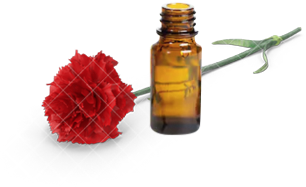
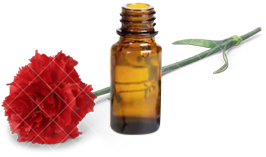
comp section

diff --git a/src/styles/components/components.scss b/src/styles/components/components.scss
@@ -1,0 +1,185 @@
+.components {
+  padding: 90px 0;
+}
+
+.components__content {
+  position: relative;
+}
+
+.components__subtitle {
+  margin-top: 17px;
+  text-align: center;
+}
+
+.components__prod {
+  position: absolute;
+  top: 36px;
+  left: 76px;
+}
+
+.components__list {
+  max-width: 860px;
+  margin: 50px 50px 0 auto;
+  display: flex;
+  justify-content: space-between;
+}
+
+.components__item {
+  max-width: 270px;
+  margin-top: 136px;
+
+  &:nth-child(2n) {
+    margin-top: 0;
+  }
+
+  &:nth-child(1) {
+    .components__img img {
+      left: -8px;
+      top: -11px;
+    }
+  }
+
+  &:nth-child(2) {
+    .components__img img {
+      top: -7px;
+      left: -47px;
+    }
+  }
+
+  &:nth-child(3) {
+    margin-top: 107px;
+
+    .components__img img {
+      top: -12px;
+      left: -23px;
+    }
+  }
+}
+
+.components__item.active {
+  .components__item-text {
+    max-height: none;
+
+    &::before {
+      display: none;
+    }
+  }
+
+  .components__btn:before {
+    top: 15px;
+    transform: rotate(-45deg);
+  }
+
+  .components__btn:after {
+    top: 15px;
+    transform: rotate(45deg);
+  }
+}
+
+.components__img img {
+  // height: 160px;
+  margin: 0 auto;
+  position: relative;
+}
+
+.components__item-title {
+  margin-bottom: 12px;
+  font-size: 22px;
+  font-weight: 500;
+  line-height: 1.3;
+}
+
+.components__desc {
+  position: relative;
+}
+
+.components__item-text {
+  max-height: 112px;
+  font-size: 18px;
+  color: #444444;
+  line-height: 1.6;
+  overflow: hidden;
+  position: relative;
+  transition: all .5s;
+
+  &::before {
+    content: "";
+    position: absolute;
+    width: 100%;
+    height: 35px;
+    bottom: -7px;
+    background: linear-gradient(to bottom, rgba(255, 255, 255, 0) 0%, rgba(255, 255, 255, 1) 100%);
+  }
+}
+
+.more-btn {
+  width: 33px;
+  height: 33px;
+  border-radius: 100%;
+  background-color: $green;
+  position: relative;
+  cursor: pointer;
+
+  &::before,
+  &::after {
+    content: "";
+    height: 2px;
+    width: 11px;
+    top: 17px;
+    background-color: #fff;
+    position: absolute;
+    transition: all .5s;
+  }
+
+  &:before {
+    left: 7px;
+    transform: rotate(45deg);
+  }
+
+  &:after {
+    left: 14px;
+    transform: rotate(-45deg);
+  }
+}
+
+.components__btn {
+  position: absolute;
+  left: 0;
+  bottom: -50px;
+}
+
+.components__bottom {
+  max-width: 815px;
+  margin: 47px auto 0;
+  text-align: center;
+}
+
+.components__bottom-title {
+  margin-bottom: 34px;
+  padding-top: 60px;
+  font-size: 29px;
+  font-weight: 500;
+  position: relative;
+
+  &:before {
+    content: "";
+    position: absolute;
+    top: 0px;
+    left: 50%;
+    transform: translateX(-50%);
+    width: 47px;
+    height: 47px;
+    background: url("../img/icon-comp.png") no-repeat 50%;
+  }
+}
+
+.components__bottom-text {
+  margin-bottom: 34px;
+  font-size: 18px;
+  line-height: 1.4;
+  color: #444444;
+
+  &:last-of-type {
+    margin-bottom: 0;
+  }
+}

diff --git a/src/styles/settings/common.scss b/src/styles/settings/common.scss
@@ -19,6 +19,10 @@ button {
   padding: 0;
 }
 
+section {
+  position: relative;
+}
+
 .container {
   max-width: 1220px;
   margin: 0 auto;
@@ -47,6 +51,7 @@ button {
 }
 
 .title {
+  text-align: center;
   font-size: 47px;
   font-weight: 900;
   color: #000000;
@@ -139,4 +144,6 @@ button {
 
 .section-bg {
   background-color: #f6f5f1;
+  background: #f6f5f1 url("../img/bg-noise.png") no-repeat 50% 50%;
+  background-size: cover;
 }

diff --git a/src/js/modules/components.js b/src/js/modules/components.js
@@ -1,0 +1,12 @@
+export default () => {
+  //   var compBtn = document.querySelectorAll('.components__btn');
+  //   for (var i = 0; i < compBtn.length; i++) {
+  //     compBtn[i].addEventListener('click', function () {
+  //       compBtn.classList.toggle('active');
+  //     });
+  //   }
+
+  $('.components__btn').on('click', function (e) {
+    $(this).parents('.components__item').toggleClass('active');
+  })
+};

diff --git a/src/js/main.js b/src/js/main.js
@@ -2,11 +2,13 @@ import './helpers/postDate';
 import scrollSmooth from './helpers/smooth-scroll.js';
 import menu from './modules/menu.js';
 import symptoms from './modules/symptoms.js';
+import components from './modules/components.js';
 
-function main () {
+function main() {
   scrollSmooth();
   menu();
   symptoms();
+  components();
 }
 
 main();

diff --git a/src/styles/main.scss b/src/styles/main.scss
@@ -8,6 +8,7 @@
 @import "components/promo";
 @import "components/menu";
 @import "components/symptoms";
+@import "components/components";
 @import "components/promo-last";
 
 // паддинг секций (импортируем последним для правильного каскадирования стилей)

diff --git a/src/styles/components/promo.scss b/src/styles/components/promo.scss
@@ -1,5 +1,6 @@
 .promo {
   padding: 80px 0 90px;
+  background-color: #f6f5f1;
 }
 
 .header {
